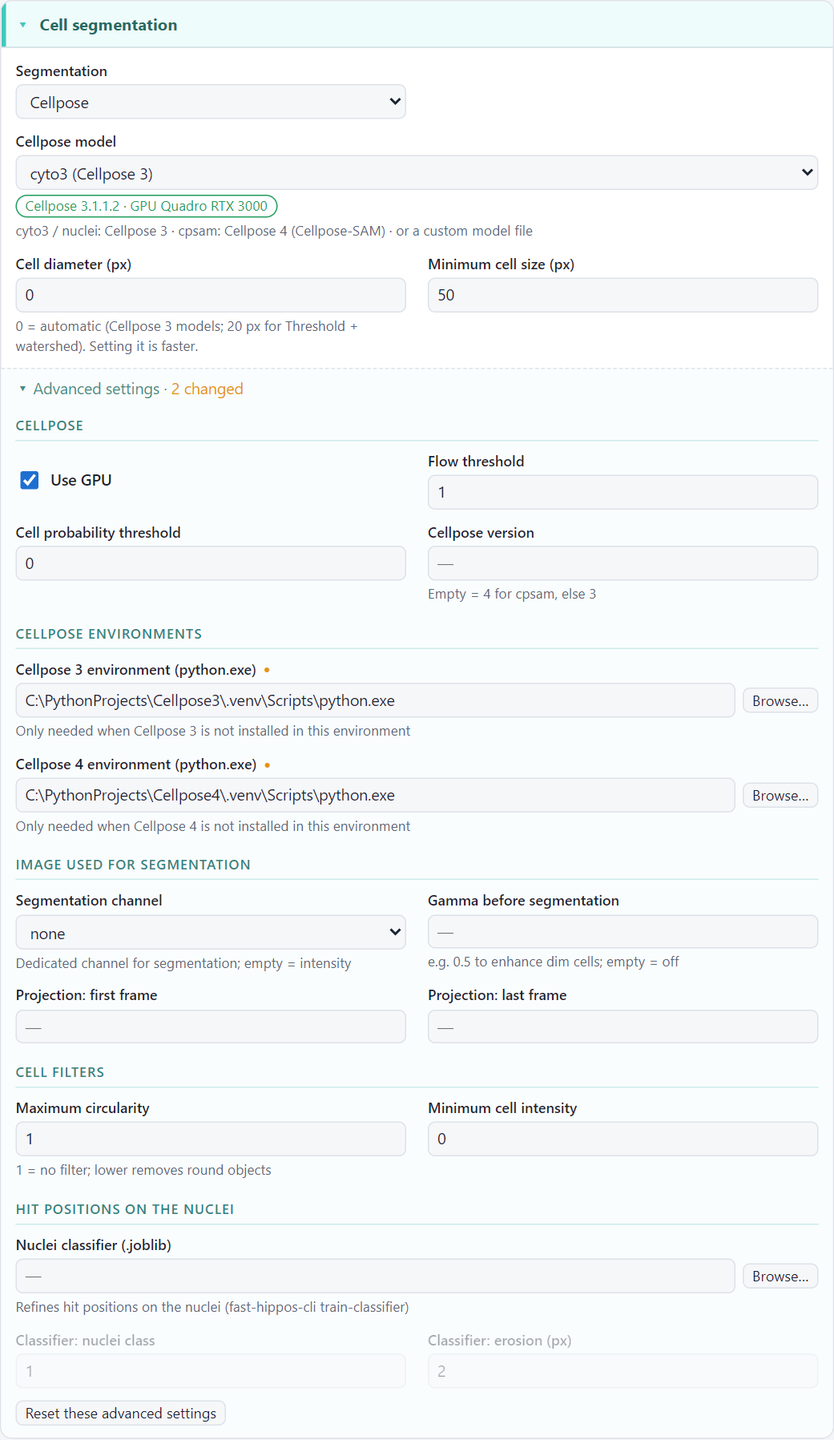
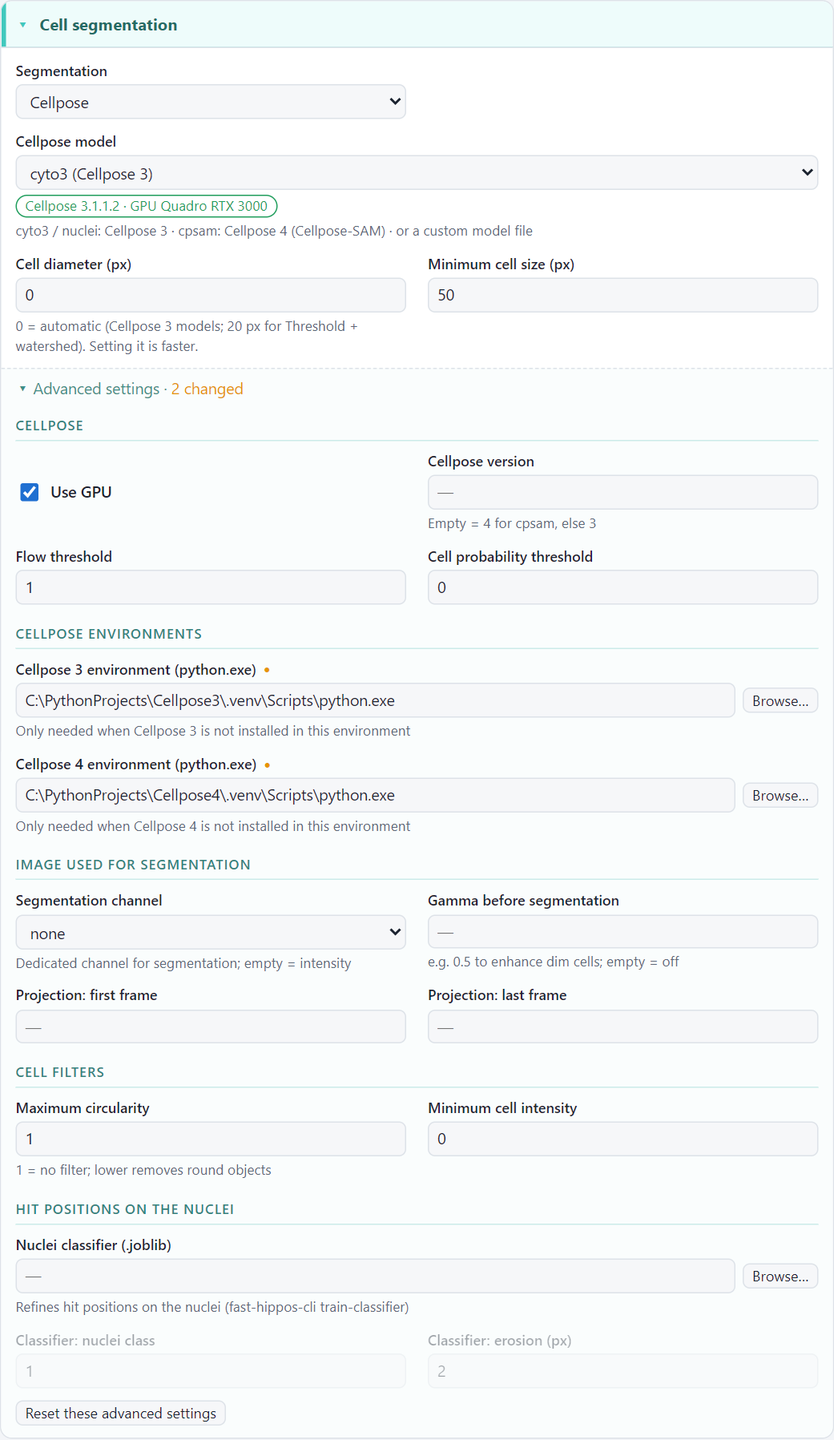
Window: advanced settings in rows of related settings (Pre-processing split into Bidirectional scanning and Drift correction); drift blur now on the cross-correlation image, as in Fiji, default 0
Manual: analysis page describes the drift correction; reference regenerated; screenshots renewed.

Changed region(s): [[0.5226, 0.3116, 0.707, 0.4363], [0.0307, 0.3116, 0.2152, 0.4051]]

diff --git a/src/fast_hippos/templates/gui.html b/src/fast_hippos/templates/gui.html
@@ -83,6 +83,7 @@ main { display: grid; grid-template-columns: minmax(0, 940px) 700px; justify-con
 .field.off { opacity: .42; }
 .field.off.unused { opacity: .28; }  /* never used by this version */
 .body.col { grid-template-columns: 1fr; gap: 6px; }
+.adv .body + .body { padding-top: 0; }  /* the rows of one group */
 .field.off input, .field.off select, .field.off button { cursor: not-allowed; }
 #stopped { display: none; position: fixed; inset: 0; background: var(--bg); z-index: 20; align-items: center; justify-content: center; flex-direction: column; gap: 10px; }
 #stopped.on { display: flex; }
@@ -361,7 +362,9 @@ function render() {
   let html = "", hidden = 0;
   for (const card of SCHEMA.layout) {
     const basic = card.basic.map(k => FIELD[k]).filter(f => shown(f.show));
-    const subs = card.advanced.filter(a => shown(a.show)).map(a => ({ title: a.title, column: a.column, fs: a.keys.map(k => FIELD[k]).filter(f => shown(f.show)) })).filter(a => a.fs.length);
+    // a group's rows ("|" starts a new one), each with the fields that are shown
+    const rowsOf = (keys) => keys.join(" ").split("|").map(r => r.trim().split(/\s+/).filter(Boolean).map(k => FIELD[k]).filter(f => shown(f.show))).filter(r => r.length);
+    const subs = card.advanced.filter(a => shown(a.show)).map(a => { const rows = rowsOf(a.keys); return { title: a.title, column: a.column, rows, fs: rows.flat() }; }).filter(a => a.fs.length);
     const changed = subs.flatMap(a => a.fs).filter(isChanged).length, open = ADV_ALL || openAdv.has(card.title);
     if (!open) hidden += changed;
     html += `<div class="card" style="--h:${HUES[card.title] ?? 212}" data-card-title="${esc(card.title)}"><h2 class="toggle" data-fold="${esc(card.title)}" title="Click to fold or unfold this section"><span class="fold">▾</span>${esc(card.title)}</h2>` +
@@ -370,7 +373,7 @@ function render() {
     if (subs.length) {
       html += `<div class="adv"><button class="advtoggle" data-card="${esc(card.title)}" title="Show or hide the less common settings of this section. A dot marks settings that differ from the default.">${open ? "▾" : "▸"} Advanced settings` +
         (changed ? ` · <span class="count">${changed} changed</span>` : "") + `</button>`;
-      if (open) html += subs.map(a => `<h3>${esc(a.title)}</h3><div class="body${a.column ? " col" : ""}">${a.fs.map(fieldHTML).join("")}</div>`).join("") +
+      if (open) html += subs.map(a => `<h3>${esc(a.title)}</h3>` + a.rows.map(r => `<div class="body${a.column ? " col" : ""}">${r.map(fieldHTML).join("")}</div>`).join("")).join("") +
         (changed ? `<div style="padding:0 12px 10px"><button class="small" data-resetcard="${esc(card.title)}" title="Set the advanced settings of this section back to their defaults">Reset these advanced settings</button></div>` : "");
       html += `</div>`;
     }
@@ -548,7 +551,7 @@ document.addEventListener("click", async (e) => {
     const t = b.dataset.fold; FOLDED.has(t) ? FOLDED.delete(t) : FOLDED.add(t); applyFold();
     api("prefs", { folded: [...FOLDED] }).catch(() => {}); return;
   }
-  if (b.dataset.resetcard) { const card = SCHEMA.layout.find(c => c.title === b.dataset.resetcard); card.advanced.flatMap(a => a.keys).forEach(k => set(k, structuredClone(FIELD[k].default))); render(); return; }
+  if (b.dataset.resetcard) { const card = SCHEMA.layout.find(c => c.title === b.dataset.resetcard); card.advanced.flatMap(a => a.keys).filter(k => k !== "|").forEach(k => set(k, structuredClone(FIELD[k].default))); render(); return; }
   if (b.dataset.browse) {
     const f = FIELD[b.dataset.browse], kind = b.dataset.kind, cur = get(f.key);
     const initial = Array.isArray(cur) ? cur[0] || S.input.output || "" : cur || "";

diff --git a/src/fast_hippos/gui.py b/src/fast_hippos/gui.py
@@ -101,7 +101,7 @@ FIELDS: dict[str, dict] = {
     "preprocess.drift_reference": {"label": "Drift reference frame",
         "choices": {"first": "first", "last": "last", "previous": "previous"}},
     "preprocess.drift_edge_detect": {"label": "Drift: register edges"},
-    "preprocess.drift_blur_sigma": {"label": "Drift: blur σ (px)"},
+    "preprocess.drift_blur_sigma": {"label": "Drift: blur of the cross-correlation σ (px)", "help": "0 = no blur"},
     # ---- segmentation
     "segmentation.method": {"label": "Segmentation", "choices": {
         "cellpose": "Cellpose", "labelmap": "Existing label image", "threshold": "Threshold + watershed (no Cellpose)"}},
@@ -253,8 +253,9 @@ TIPS: dict[str, str] = {
         "one before it (best for slow, gradual drift).",
     "preprocess.drift_edge_detect": "Align on the edges in the image instead of the intensity itself. Helps when the "
         "brightness changes during the experiment.",
-    "preprocess.drift_blur_sigma": "Blurring (pixels) before aligning, so that noise does not disturb the alignment. "
-        "Larger = more robust, less precise.",
+    "preprocess.drift_blur_sigma": "The drift of a frame is the position of the peak of its cross-correlation with the "
+        "reference frame. Blurring that cross-correlation image (σ in pixels) makes the peak easier to find in noisy "
+        "images, as in the Fiji version (which used 4); larger = more robust, less precise. 0 = no blur.",
     # ---- segmentation
     "segmentation.method": "How the cells are found. Cellpose: a deep-learning model (best, uses the GPU). Existing "
         "label image: cells outlined elsewhere (e.g. in Fiji). Threshold + watershed: a simple classical method, no "
@@ -410,27 +411,29 @@ FD = {"input.modality": ["fd_flim"]}
 
 # Cards of the form: the basic settings, then the advanced ones under subheadings (an expanding pane).
 # Every setting appears exactly once (checked by the tests).
+# "|" in a group starts a new row, so that only related settings are next to each other
 LAYOUT = [
     {"title": "Images", "basic": ["input.files", "input.output", "input.modality", "input.tau1", "input.tau2",
                                   "input.additional_channel"],
      "advanced": [
-         ("Channels and metadata", ["input.intensity_channel", "input.pixel_size", "input.default_frame_interval",
-                                    "input.remove_last_frame", "input.series"]),
-         ("Pre-processing", ["preprocess.correct_bidirectional", "preprocess.bidirectional_axis", "preprocess.correct_drift", "preprocess.drift_reference",
-                             "preprocess.drift_edge_detect", "preprocess.drift_blur_sigma"]),
-         ("Frequency-domain FLIM", ["fdflim.reference", "fdflim.background", "fdflim.phases", "fdflim.frequency_mhz",
-                                    "fdflim.tau_ref", "fdflim.lifetime_from"], FD),
+         ("Channels and metadata", ["input.intensity_channel", "input.series", "|", "input.pixel_size",
+                                    "input.default_frame_interval", "|", "input.remove_last_frame"]),
+         ("Bidirectional scanning", ["preprocess.correct_bidirectional", "preprocess.bidirectional_axis"]),
+         ("Drift correction", ["preprocess.correct_drift", "|", "preprocess.drift_reference", "preprocess.drift_edge_detect",
+                               "|", "preprocess.drift_blur_sigma"]),
+         ("Frequency-domain FLIM", ["fdflim.reference", "fdflim.background", "|", "fdflim.phases", "fdflim.frequency_mhz",
+                                    "|", "fdflim.tau_ref", "fdflim.lifetime_from"], FD),
      ]},
     {"title": "Cell segmentation", "basic": ["segmentation.method", "segmentation.cellpose_model", "segmentation.diameter",
                                              "segmentation.labelmap", "segmentation.min_cell_size"],
      "advanced": [
-         ("Cellpose", ["segmentation.use_gpu", "segmentation.flow_threshold", "segmentation.cellprob_threshold",
-                       "segmentation.cellpose_version"], CELLPOSE),
+         ("Cellpose", ["segmentation.use_gpu", "segmentation.cellpose_version", "|", "segmentation.flow_threshold",
+                       "segmentation.cellprob_threshold"], CELLPOSE),
          ("Cellpose environments", ["segmentation.cellpose3_python", "segmentation.cellpose4_python"], CELLPOSE),
-         ("Image used for segmentation", ["segmentation.channel", "segmentation.gamma", "segmentation.start_frame",
+         ("Image used for segmentation", ["segmentation.channel", "segmentation.gamma", "|", "segmentation.start_frame",
                                           "segmentation.end_frame"]),
          ("Cell filters", ["segmentation.max_circularity", "segmentation.min_cell_intensity"]),
-         ("Hit positions on the nuclei", ["segmentation.classifier", "segmentation.classifier_class",
+         ("Hit positions on the nuclei", ["segmentation.classifier", "|", "segmentation.classifier_class",
                                           "segmentation.position_erosion"]),
      ]},
     {"title": "Stimulation and calibration", "basic": ["events.stimulation_frame", "events.calibration_frame",
@@ -442,12 +445,12 @@ LAYOUT = [
     {"title": "Screening", "basic": ["screening.enabled", "screening.criteria", "screening.classify_additional_channel"],
      "advanced": [
          ("Criteria", ["screening.logic", "screening.rise_time_fraction"]),
-         ("Response window", ["screening.response_window", "screening.response_window_anchor",
+         ("Response window", ["screening.response_window", "|", "screening.response_window_anchor",
                               "screening.response_window_margin"]),
          ("Quality gates", ["screening.baseline_calibration_diff", "screening.max_baseline_deviation"]),
          ("Additional channel", ["screening.additional_channel_metric", "screening.classification_threshold"]),
-         ("Hit list", ["screening.sort_by", "screening.sort_descending", "screening.manual_hits"]),
-         ("Stage positions and .rgn files", ["screening.stage_positions_file", "screening.max_hits_per_rgn",
+         ("Hit list", ["screening.sort_by", "screening.sort_descending", "|", "screening.manual_hits"]),
+         ("Stage positions and .rgn files", ["screening.stage_positions_file", "|", "screening.max_hits_per_rgn", "|",
                                              "screening.optimize_path", "screening.max_optimization_time"]),
          ("Stage axes in the .rgn files (LAS X Navigator)", ["screening.rgn_swap_xy", "screening.rgn_invert_x",
                                                              "screening.rgn_invert_y"], None, "column"),
@@ -457,12 +460,12 @@ LAYOUT = [
     {"title": "Display and output", "basic": [],
      "note": "The defaults suit most runs; colours and ranges can also be changed in the dashboard.",
      "advanced": [
-         ("Colour scale", ["display.lut", "display.min_lifetime", "display.max_lifetime"]),
+         ("Colour scale", ["display.lut", "|", "display.min_lifetime", "display.max_lifetime"]),
          ("Lifetime overlay", ["display.overlay_smooth_xy", "display.overlay_smooth_t"]),
-         ("Dashboard", ["display.dashboard", "display.dashboard_max_size", "display.dashboard_max_megapixels",
-                        "display.dashboard_tiles", "display.histogram_bins"]),
-         ("Dashboard views", ["display.traces_view", "display.scatter_x", "display.scatter_log_x", "display.scatter_y",
-                              "display.scatter_log_y"]),
+         ("Dashboard", ["display.dashboard", "|", "display.dashboard_max_size", "display.dashboard_max_megapixels",
+                        "|", "display.dashboard_tiles", "display.histogram_bins"]),
+         ("Dashboard views", ["display.traces_view", "|", "display.scatter_x", "display.scatter_log_x", "|",
+                              "display.scatter_y", "display.scatter_log_y"]),
          ("Files", ["display.save_png_plots", "display.save_tables"]),
      ]},
 ]

diff --git a/src/fast_hippos/preprocess.py b/src/fast_hippos/preprocess.py
@@ -19,26 +19,35 @@ def registration_image(data: np.ndarray, channels: list[int]) -> np.ndarray:
     return np.nansum(data[:, [c - 1 for c in channels]], axis=1)
 
 
+def cross_correlation_shift(reference: np.ndarray, moving: np.ndarray, blur_sigma: float = 0.0) -> np.ndarray:
+    """(dy, dx) that registers `moving` onto `reference`: the peak of their cross-correlation, after blurring the
+    cross-correlation image with blur_sigma (pixels; 0 = none), as the Fiji macro does to find the peak robustly.
+    Without blur the same as skimage's phase_cross_correlation(normalization=None)."""
+    cc = np.real(np.fft.ifft2(np.fft.fft2(reference) * np.conj(np.fft.fft2(moving))))
+    if blur_sigma > 0:
+        cc = ndi.gaussian_filter(cc, blur_sigma, mode="wrap")  # the cross-correlation is periodic
+    peak = np.array(np.unravel_index(np.argmax(cc), cc.shape), dtype=float)
+    shape = np.array(cc.shape)
+    peak[peak > shape // 2] -= shape[peak > shape // 2]
+    return peak
+
+
 def estimate_drift(
-    reg: np.ndarray, reference: str = "first", edge_detect: bool = False, blur_sigma: float = 4.0
+    reg: np.ndarray, reference: str = "first", edge_detect: bool = False, blur_sigma: float = 0.0
 ) -> np.ndarray:
     """Per-frame (dy, dx) shifts (T, 2) that register each frame onto the reference frame."""
     reg = np.nan_to_num(reg.astype(np.float32))
     if edge_detect:
         reg = np.stack([_local_variance(f, 2) for f in reg])
-    if blur_sigma > 0:
-        # blurring both images is equivalent to blurring the cross-correlation (as in the Fiji macro)
-        reg = ndi.gaussian_filter(reg, sigma=(0, blur_sigma / np.sqrt(2), blur_sigma / np.sqrt(2)))
     n = reg.shape[0]
     shifts = np.zeros((n, 2))
     if reference == "previous":
         for t in range(1, n):
-            shift, _, _ = phase_cross_correlation(reg[t - 1], reg[t], normalization=None)
-            shifts[t] = shifts[t - 1] + shift
+            shifts[t] = shifts[t - 1] + cross_correlation_shift(reg[t - 1], reg[t], blur_sigma)
     else:
         ref = reg[0] if reference == "first" else reg[-1]
         for t in range(n):
-            shifts[t], _, _ = phase_cross_correlation(ref, reg[t], normalization=None)
+            shifts[t] = cross_correlation_shift(ref, reg[t], blur_sigma)
     return np.round(shifts)
 
 
@@ -50,7 +59,7 @@ def apply_shifts(data: np.ndarray, shifts: np.ndarray) -> np.ndarray:
     return out
 
 
-def correct_drift(data: np.ndarray, channels: list[int], reference="first", edge_detect=False, blur_sigma=4.0):
+def correct_drift(data: np.ndarray, channels: list[int], reference="first", edge_detect=False, blur_sigma=0.0):
     if data.shape[0] < 2:
         return data, np.zeros((data.shape[0], 2))
     shifts = estimate_drift(registration_image(data, channels), reference, edge_detect, blur_sigma)

diff --git a/tests/test_manual_findings.py b/tests/test_manual_findings.py
@@ -121,3 +121,18 @@ def test_empty_response_window_is_the_whole_response():
     assert old.screening.response_window is None and old.image["a"]["screening"]["response_window"] is None
     ev = Events(30, 5, 25)
     assert timed_window(ev, Settings().screening) == ev.response
+
+
+def test_drift_blur_is_on_the_cross_correlation():
+    from scipy import ndimage as ndi
+    from skimage.registration import phase_cross_correlation
+
+    from fast_hippos.preprocess import cross_correlation_shift
+
+    assert Settings().preprocess.drift_blur_sigma == 0
+    rng = np.random.default_rng(1)
+    a = ndi.gaussian_filter(rng.random((96, 128)), 3)
+    b = np.roll(a, (4, -6), axis=(0, 1)) + rng.normal(0, 0.002, a.shape)
+    expected, _, _ = phase_cross_correlation(a, b, normalization=None)
+    assert cross_correlation_shift(a, b).tolist() == expected.tolist() == [-4, 6]
+    assert cross_correlation_shift(a, b, blur_sigma=4).tolist() == [-4, 6]

diff --git a/tests/test_gui.py b/tests/test_gui.py
@@ -27,7 +27,7 @@ def test_schema_covers_every_setting():
 
 
 def test_layout_has_every_setting_once():
-    placed = [k for card in gui.LAYOUT for k in card["basic"] + [k for a in card["advanced"] for k in a[1]]]
+    placed = [k for card in gui.LAYOUT for k in card["basic"] + [k for a in card["advanced"] for k in a[1] if k != "|"]]
     keys = {f"{s}.{k}" for s, v in Settings().to_dict().items() for k in v}
     assert len(placed) == len(set(placed)), "a setting appears twice"
     assert set(placed) == keys

diff --git a/src/fast_hippos/config.py b/src/fast_hippos/config.py
@@ -64,7 +64,7 @@ class PreprocessSettings:
     correct_drift: bool = False
     drift_reference: str = "first"  # "first", "last" or "previous"
     drift_edge_detect: bool = False
-    drift_blur_sigma: float = 4.0
+    drift_blur_sigma: float = 0.0  # px; blur of the cross-correlation image, to find its peak robustly
 
 
 @dataclass

diff --git a/manual/reference/settings.md b/manual/reference/settings.md
@@ -23,20 +23,24 @@ Every setting of the FAST-HIPPOS window, in the order of the window: first the s
 <h3 class="fh-group">Advanced: Channels and metadata</h3>
 <table class="fh-settings"><thead><tr><th>Setting</th><th>What it does</th><th>Default</th></tr></thead><tbody>
 <tr data-search="first flim / ratio channel input.intensity_channel the channel with the first flim component (tcspc), the intensity (fast flim, taucontrast) or the numerator (ratio). the lifetime, second component or denominator must be the channel right after it. usually 1."><td><b>First FLIM / ratio channel</b><br><code class="fh-key">input.intensity_channel</code></td><td>The channel with the first FLIM component (TCSPC), the intensity (Fast FLIM, TauContrast) or the numerator (ratio). The lifetime, second component or denominator must be the channel right after it. Usually 1.</td><td>1</td></tr>
+<tr data-search=".lif series (0-based) input.series which images (series) of a .lif file to analyze, counted from 0, e.g. &#x27;0, 2, 5&#x27;. empty = all series. ignored for .tif files and tile folders."><td><b>.lif series (0-based)</b><br><code class="fh-key">input.series</code></td><td>Which images (series) of a .lif file to analyze, counted from 0, e.g. &#x27;0, 2, 5&#x27;. Empty = all series. Ignored for .tif files and tile folders.</td><td>empty</td></tr>
 <tr data-search="pixel size (µm) input.pixel_size size of one pixel (µm). normally read from the file; fill it in only when the file has no or a wrong calibration. affects cell sizes and the stage positions of the hits."><td><b>Pixel size (µm)</b><br><code class="fh-key">input.pixel_size</code></td><td>Size of one pixel (µm). Normally read from the file; fill it in only when the file has no or a wrong calibration. Affects cell sizes and the stage positions of the hits.</td><td>empty</td></tr>
 <tr data-search="frame interval if not in the file (s) input.default_frame_interval time between frames (s), used only when the image file does not store it. only affects time axes and times in seconds; the detection works in frames."><td><b>Frame interval if not in the file (s)</b><br><code class="fh-key">input.default_frame_interval</code></td><td>Time between frames (s), used only when the image file does not store it. Only affects time axes and times in seconds; the detection works in frames.</td><td>5.0</td></tr>
 <tr data-search="remove last frame input.remove_last_frame leave out the last frame of every image, e.g. when it is incomplete because the acquisition was stopped during that frame."><td><b>Remove last frame</b><br><code class="fh-key">input.remove_last_frame</code></td><td>Leave out the last frame of every image, e.g. when it is incomplete because the acquisition was stopped during that frame.</td><td>off</td></tr>
-<tr data-search=".lif series (0-based) input.series which images (series) of a .lif file to analyze, counted from 0, e.g. &#x27;0, 2, 5&#x27;. empty = all series. ignored for .tif files and tile folders."><td><b>.lif series (0-based)</b><br><code class="fh-key">input.series</code></td><td>Which images (series) of a .lif file to analyze, counted from 0, e.g. &#x27;0, 2, 5&#x27;. Empty = all series. Ignored for .tif files and tile folders.</td><td>empty</td></tr>
 </tbody></table>
 
-<h3 class="fh-group">Advanced: Pre-processing</h3>
+<h3 class="fh-group">Advanced: Bidirectional scanning</h3>
 <table class="fh-settings"><thead><tr><th>Setting</th><th>What it does</th><th>Default</th></tr></thead><tbody>
 <tr data-search="correct bidirectional scanning phase preprocess.correct_bidirectional with bidirectional scanning, the lines scanned forward and backward can be slightly shifted, which makes edges look jagged. this measures the shift and corrects it. for tile folders and .lif tile scans, one shift is measured over all tiles and applied to each tile before stitching."><td><b>Correct bidirectional scanning phase</b><br><code class="fh-key">preprocess.correct_bidirectional</code></td><td>With bidirectional scanning, the lines scanned forward and backward can be slightly shifted, which makes edges look jagged. This measures the shift and corrects it. For tile folders and .lif tile scans, one shift is measured over all tiles and applied to each tile before stitching.</td><td>off</td></tr>
 <tr data-search="bidirectional offset along preprocess.bidirectional_axis direction of the shift between forward and backward scan lines: along y when the fast scan direction is vertical in the image (leica stellaris), along x when it is horizontal. a property of the microscope."><td><b>Bidirectional offset along</b><br><code class="fh-key">preprocess.bidirectional_axis</code></td><td>Direction of the shift between forward and backward scan lines: along y when the fast scan direction is vertical in the image (Leica Stellaris), along x when it is horizontal. A property of the microscope.<br><span class="fh-choices"><code>y</code> y (fast scan axis vertical) · <code>x</code> x (fast scan axis horizontal)</span></td><td>y</td></tr>
+</tbody></table>
+
+<h3 class="fh-group">Advanced: Drift correction</h3>
+<table class="fh-settings"><thead><tr><th>Setting</th><th>What it does</th><th>Default</th></tr></thead><tbody>
 <tr data-search="correct drift preprocess.correct_drift align all frames to each other, to correct a slow movement of the sample during the time-lapse. needed when cells visibly move; otherwise traces mix neighbouring cells."><td><b>Correct drift</b><br><code class="fh-key">preprocess.correct_drift</code></td><td>Align all frames to each other, to correct a slow movement of the sample during the time-lapse. Needed when cells visibly move; otherwise traces mix neighbouring cells.</td><td>off</td></tr>
 <tr data-search="drift reference frame preprocess.drift_reference frame that the others are aligned to: the first, the last, or each frame to the one before it (best for slow, gradual drift)."><td><b>Drift reference frame</b><br><code class="fh-key">preprocess.drift_reference</code></td><td>Frame that the others are aligned to: the first, the last, or each frame to the one before it (best for slow, gradual drift).<br><span class="fh-choices"><code>first</code> first · <code>last</code> last · <code>previous</code> previous</span></td><td>first</td></tr>
 <tr data-search="drift: register edges preprocess.drift_edge_detect align on the edges in the image instead of the intensity itself. helps when the brightness changes during the experiment."><td><b>Drift: register edges</b><br><code class="fh-key">preprocess.drift_edge_detect</code></td><td>Align on the edges in the image instead of the intensity itself. Helps when the brightness changes during the experiment.</td><td>off</td></tr>
-<tr data-search="drift: blur σ (px) preprocess.drift_blur_sigma blurring (pixels) before aligning, so that noise does not disturb the alignment. larger = more robust, less precise."><td><b>Drift: blur σ (px)</b><br><code class="fh-key">preprocess.drift_blur_sigma</code></td><td>Blurring (pixels) before aligning, so that noise does not disturb the alignment. Larger = more robust, less precise.</td><td>4.0</td></tr>
+<tr data-search="drift: blur of the cross-correlation σ (px) preprocess.drift_blur_sigma the drift of a frame is the position of the peak of its cross-correlation with the reference frame. blurring that cross-correlation image (σ in pixels) makes the peak easier to find in noisy images, as in the fiji version (which used 4); larger = more robust, less precise. 0 = no blur."><td><b>Drift: blur of the cross-correlation σ (px)</b><br><code class="fh-key">preprocess.drift_blur_sigma</code></td><td>The drift of a frame is the position of the peak of its cross-correlation with the reference frame. Blurring that cross-correlation image (σ in pixels) makes the peak easier to find in noisy images, as in the Fiji version (which used 4); larger = more robust, less precise. 0 = no blur.</td><td>0.0</td></tr>
 </tbody></table>
 
 <h3 class="fh-group">Advanced: Frequency-domain FLIM</h3>
@@ -63,9 +67,9 @@ Every setting of the FAST-HIPPOS window, in the order of the window: first the s
 <h3 class="fh-group">Advanced: Cellpose</h3>
 <table class="fh-settings"><thead><tr><th>Setting</th><th>What it does</th><th>Default</th></tr></thead><tbody>
 <tr data-search="use gpu segmentation.use_gpu run cellpose on the graphics card, which is much faster. switch it off only when the gpu causes problems."><td><b>Use GPU</b><br><code class="fh-key">segmentation.use_gpu</code></td><td>Run Cellpose on the graphics card, which is much faster. Switch it off only when the GPU causes problems.</td><td>on</td></tr>
+<tr data-search="cellpose version segmentation.cellpose_version force cellpose 3 or 4. empty = 4 for the cpsam model, 3 for the others."><td><b>Cellpose version</b><br><code class="fh-key">segmentation.cellpose_version</code></td><td>Force Cellpose 3 or 4. Empty = 4 for the cpsam model, 3 for the others.</td><td>empty</td></tr>
 <tr data-search="flow threshold segmentation.flow_threshold cellpose quality check of the cell shapes. lower = stricter: fewer, cleaner cells. higher = more cells, including less regular ones. cellpose&#x27;s own default is 0.4; here 1.0 (lenient)."><td><b>Flow threshold</b><br><code class="fh-key">segmentation.flow_threshold</code></td><td>Cellpose quality check of the cell shapes. Lower = stricter: fewer, cleaner cells. Higher = more cells, including less regular ones. Cellpose&#x27;s own default is 0.4; here 1.0 (lenient).</td><td>1.0</td></tr>
 <tr data-search="cell probability threshold segmentation.cellprob_threshold how certain cellpose must be that a pixel belongs to a cell. lower (e.g. -2) = larger cells and more dim cells; higher = smaller cells and fewer dim ones. default 0."><td><b>Cell probability threshold</b><br><code class="fh-key">segmentation.cellprob_threshold</code></td><td>How certain Cellpose must be that a pixel belongs to a cell. Lower (e.g. -2) = larger cells and more dim cells; higher = smaller cells and fewer dim ones. Default 0.</td><td>0.0</td></tr>
-<tr data-search="cellpose version segmentation.cellpose_version force cellpose 3 or 4. empty = 4 for the cpsam model, 3 for the others."><td><b>Cellpose version</b><br><code class="fh-key">segmentation.cellpose_version</code></td><td>Force Cellpose 3 or 4. Empty = 4 for the cpsam model, 3 for the others.</td><td>empty</td></tr>
 </tbody></table>
 
 <h3 class="fh-group">Advanced: Cellpose environments</h3>

diff --git a/manual/reference/analysis.md b/manual/reference/analysis.md
@@ -7,7 +7,10 @@ results.
 
 The images are read with their channels, frame interval, pixel size and stage positions. Optionally, the phase
 offset of bidirectional scanning is corrected (needed for some fast scans), and the drift of the sample is corrected
-by registering every frame to a reference frame.
+by registering every frame to a reference frame (the first, the last or the previous frame): the shift of a frame is
+the position of the peak of its cross-correlation with the reference. For noisy images, that cross-correlation image
+can be blurred first (*Drift: blur of the cross-correlation σ*), as in the Fiji version, which used σ = 4; the
+default is 0, no blur. *Drift: register edges* aligns the edges of the cells instead of their intensity.
 
 ## 2. Segmentation
 
